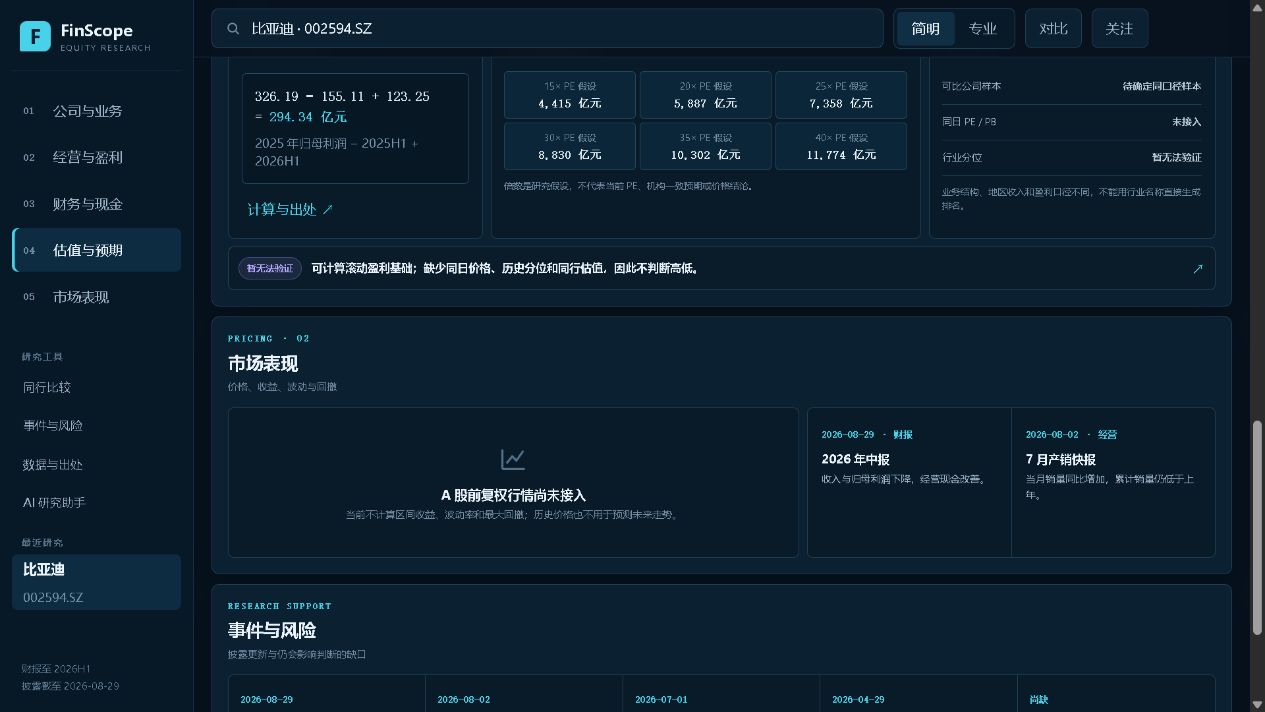
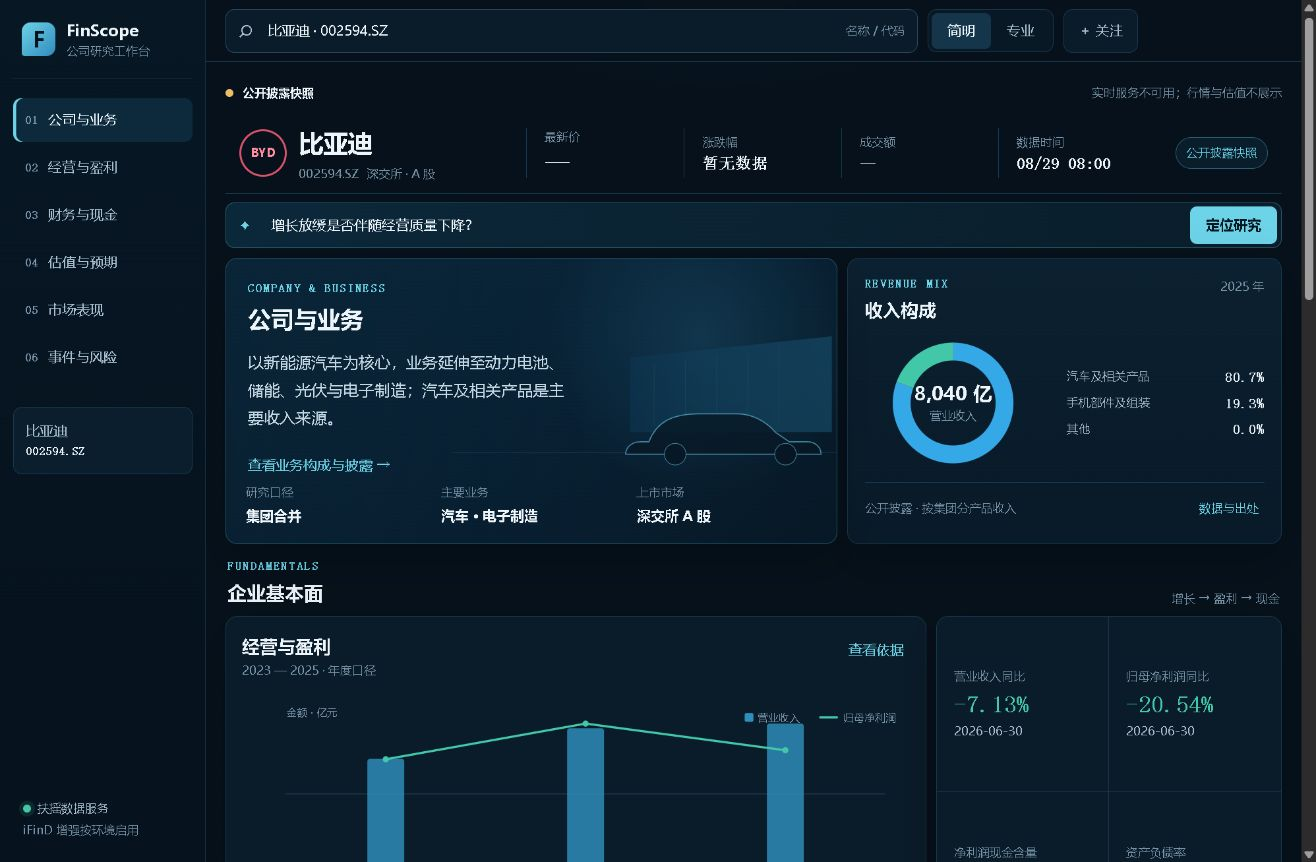
docs: document live data delivery

diff --git a/README.md b/README.md
@@ -1,40 +1,42 @@
 # FinScope
 
-FinScope 是一个可操作的个股研究工作台。当前公开版本以比亚迪为完整样例，把公司与业务、经营与盈利、财务与现金、估值与预期、市场表现、同行位置、事件与风险组织在同一条研究链上。
+FinScope 是一个可操作的 A 股公司研究工作台。它把公司与业务、经营与盈利、财务与现金、估值、行情、行业位置及事件风险组织成一条研究链；用户看到的是数据之间的关系，不是“好 / 坏”标签或买卖建议。
 
 - Web 产品：[stock-evidence-lab-midea.violet-lotus-6432.chatgpt.site](https://stock-evidence-lab-midea.violet-lotus-6432.chatgpt.site)
-- 源代码：[github.com/hwerhfhwf/stock-evidence-lab](https://github.com/hwerhfhwf/stock-evidence-lab)
+- 公共源码：[github.com/hwerhfhwf/stock-evidence-lab](https://github.com/hwerhfhwf/stock-evidence-lab)
 
 ![FinScope 桌面版研究工作台](docs/finscope-desktop.png)
 
-## 用户可以获得什么
+## 产品价值
 
-- 先识别公司如何取得收入，再连接收入、利润和经营现金的变化。
-- 在 2025 全年、2026Q1、2026H1 之间切换，保持同一报告期比较。
-- 查看利润变化分解、现金结构、流动性和滚动归母利润计算。
-- 区分客观事实、分析推断、方向分化和暂时无法验证的信息。
-- 点击具体判断，查看与之对应的原值、报告期、口径、页码和原报告链接。
-- 输入研究问题，只改变研究维度的优先级，不改写或隐藏基础事实。
+- 搜索 A 股名称或代码，打开同一结构的公司研究页。
+- 首屏同时看到公司业务、最新行情、收入构成、经营趋势和关键指标。
+- 收入、利润、经营现金和资产负债按相邻关系呈现，减少孤立数字。
+- PE、PB、PS、PCF 保留原口径和缺失值，不把 `null` 显示成 0。
+- 区分客观事实、分析推断与暂无法验证的信息，并可沿图表查看具体数据与出处。
+- 简明与专业模式共用事实；专业模式只增加原值和口径细节。
 
-产品不输出综合评分、确定性涨跌预测或买卖建议。行情、同日估值和同行数据未接入时，缺口直接显示在受影响模块，不用示意数字替代。
+## 数据架构
 
-## 数据与口径
+采用“**扶摇主数据 + iFinD 可选增强**”的架构：
 
-默认样例使用比亚迪公开披露的 2025 年报、2026 年一季报、2026 年中报摘要及 2026 年 6—7 月产销快报。结构化快照位于 `ui/finscope-data.js`；每条可验证判断通过 `sourceId`、页码、期次和原值连接到来源。
+- 扶摇提供公司搜索、A 股行情快照、前复权历史 K 线、三张财务报表、财务指标和最新估值。
+- iFinD 可选增强新闻、政策、宏观及跨市场语境。当前代码保留服务端边界；未配置时只让事件语境模块降级，不影响扶摇模块。
+- 比亚迪 2025 年分产品收入来自公开年报，因为当前扶摇 bundle 不含分部收入。实时服务失败时，页面明确切换为“**公开披露快照**”，不冒充实时行情。
+- 任一数据源失败都按**模块级降级**处理：已成功模块继续展示，失败模块显示具体原因。
 
-关键确定性计算包括：
+浏览器只调用同源接口：
 
 ```text
-TTM 归母利润 = 2025 年归母利润 − 2025H1 归母利润 + 2026H1 归母利润
-               = 326.19 − 155.11 + 123.25
-               = 294.34 亿元
+GET /api/search?q=比亚迪
+GET /api/research?thscode=002594.SZ&name=比亚迪
 ```
 
-简明和专业模式共用同一份事实与判断；专业模式只增加原值表和口径细节。
+服务端返回 `market`、`financials`、`indicators`、`valuation`、`industry`、`context` 六个独立状态。缺失、过期或接口失败的信息不补零、不生成正常结论。
 
 ## 本地运行
 
-需要 Node.js 18+。默认比亚迪研究快照不需要密钥：
+需要 Node.js 18+：
 
 ```powershell
 npm test
@@ -42,30 +44,43 @@ npm run build
 npm run serve
 ```
 
-打开 `http://127.0.0.1:4173/`。
+打开 `http://127.0.0.1:4173/`。未配置密钥时仍可查看明确标注的比亚迪披露快照。
 
-如需调用扶摇实时接口，在服务端环境设置：
+如需扶摇实时数据，只在服务端环境设置：
 
 ```powershell
-$env:FUYAO_API_KEY = '仅在本地或部署平台设置'
+$env:FUYAO_API_KEY = '在本地会话或部署平台设置'
+npm run serve
 ```
 
-密钥只由 Worker 服务端读取，不进入浏览器代码、构建产物或接口响应。
+`FUYAO_API_KEY` 仅由 Worker 读取，不进入浏览器脚本、构建产物或接口响应。iFinD 的账户专属 MCP 配置也必须留在服务端；仓库不包含密钥或生成配置。
 
 ## 代码结构
 
-- `ui/finscope-data.js`：比亚迪披露快照、派生指标、证据和演示 bundle。
-- `ui/diagnosis-model.js`：问题路由、维度优先级、命题和证据模型。
-- `ui/index.html`、`ui/app.js`、`ui/styles.css`：研究工作台、图表、交互和响应式布局。
-- `worker/`：同源静态发布、扶摇适配器和研究数据聚合。
-- `scripts/build-worker.mjs`：从 `ui/` 生成 `dist/` 与 Worker 发布物。
-- `tests/`：数据口径、计算、追溯、缺失状态、接口安全、UI 与构建一致性契约。
+- `worker/fuyao.js`：扶摇允许列表、输入校验、请求与错误规范化。
+- `worker/research.js`：研究 bundle、行情指标和模块级降级。
+- `worker/ifind.js`：iFinD 可选服务端边界。
+- `ui/data-client.js`：浏览器同源数据客户端。
+- `ui/research-view.js`：纯函数视图模型、累计报表单季换算及披露后备。
+- `ui/app.js`：搜索、实时加载、图表、证据抽屉和研究问题路由。
+- `ui/finscope-data.js`：比亚迪公开披露快照及页码级证据。
+- `tests/`：计算、来源、缺失状态、接口安全、UI、文档与发布契约。
+
+## 验证
+
+```powershell
+npm test
+npm run build
+```
+
+测试覆盖搜索编码、密钥隔离、部分上游失败、估值空值、累计报表单季换算、图表缺失值、证据回溯、响应式与发布物一致性。详细架构见 [docs/live-data-architecture.md](docs/live-data-architecture.md)，产品交付说明见 [docs/product-handoff.md](docs/product-handoff.md)。
 
 ## 已知边界
 
-- 默认公开版本没有 A 股前复权价格序列，因此不计算收益、波动率和最大回撤。
-- 同日价格、历史估值分位和同口径同行样本未接入，因此不判断估值高低或行业排名。
-- 合并财报不能单独识别价格、销量和产品结构对收入的贡献。
-- 产销快报与定期报告是不同披露口径，事件卡保留原披露日期和来源。
+- 当前扶摇接口只提供最新估值快照，未提供历史估值分位。
+- 行业映射和同口径同行样本尚未完成，因此不生成行业排名。
+- iFinD 需要账户侧生成的 MCP 配置；未配置时不伪造新闻或政策影响。
+- 分部收入仅在有公开披露快照的公司展示；其他公司明确显示缺失。
+- 合并财报不能单独识别价格、销量和产品结构对收入的独立贡献。
 
-更多记录见 [AI_USAGE_AND_VALIDATION.md](AI_USAGE_AND_VALIDATION.md) 和 [TESTING.md](TESTING.md)。
+FinScope 仅作研究辅助，不构成投资建议。

diff --git a/docs/live-data-architecture.md b/docs/live-data-architecture.md
@@ -1,0 +1,49 @@
+# 实时数据架构
+
+## 请求链路
+
+```text
+浏览器
+  ├─ /api/search   → Worker → 扶摇公司搜索
+  └─ /api/research → Worker → 扶摇行情 / K 线 / 财务 / 指标 / 估值
+                            └→ iFinD 可选语境提供器
+```
+
+浏览器只接收规范化结果，不接触 `FUYAO_API_KEY` 或 iFinD 账户配置。Worker 对 A 股代码、查询长度和上游路径使用允许列表，并把 HTTP 错误和业务错误转换为安全错误结构。
+
+## 提供方职责
+
+| 模块 | 主来源 | 页面用途 | 失败行为 |
+| --- | --- | --- | --- |
+| 公司搜索 | 扶摇 | 名称 / 代码检索 | 保留当前公司，显示搜索错误 |
+| 行情 | 扶摇 | 最新价、前复权价格、成交量、收益与回撤 | 行情模块不可用；不画示意价格 |
+| 财务报表 | 扶摇 | 收入、利润、现金、资产负债趋势 | 保留成功的报表，缺表单独提示 |
+| 财务指标 | 扶摇 | 同比、现金含量、资产负债率 | 指标显示暂无数据，不从金额猜测原因 |
+| 估值 | 扶摇 | 最新 PE / PB / PS / PCF | 缺失值不补零，不判断贵或便宜 |
+| 新闻 / 政策 / 宏观 | iFinD 可选增强 | 外部事件语境 | 只降级 `context`，不阻断扶摇数据 |
+| 分部收入 | 公司公开披露 | 收入构成环形图 | 仅匹配公司和报告期时使用 |
+
+## 研究 bundle
+
+`buildResearchBundle` 输出六个并列但独立的模块：`market`、`financials`、`indicators`、`valuation`、`industry`、`context`。每个模块包含：
+
+- `status`: `ok`、`partial`、`error` 或 `unavailable`；
+- `errors`: 受影响模块的安全错误；
+- `requestIds`: 扶摇返回的 `requestId`，用于具体数据请求追踪；
+- 数据时间、报告期或行情区间。
+
+前端视图模型保留 `null`。图表跳过缺失点，不把缺失值变成 0；累计利润表只有在相邻累计值都存在时才换算单季值。
+
+## 降级顺序
+
+1. 单个扶摇请求失败：保留其他成功模块。
+2. iFinD 未配置、超时或失败：仅 `context` 不可用。
+3. 比亚迪实时 bundle 整体失败：使用明确标注的公开披露快照；行情与估值保持不可用。
+4. 其他公司实时 bundle 失败：不套用比亚迪数据，也不替换当前页面为伪结果。
+
+## 安全边界
+
+- 密钥只在 Worker 运行时环境读取。
+- 浏览器、错误信息、导出 JSON 和 Git 仓库都不包含密钥。
+- `/api/search` 和 `/api/research` 只接受受限参数；上游返回体不直接透传。
+- 页面不输出综合评分、涨跌预测或买卖建议。

diff --git a/docs/product-handoff.md b/docs/product-handoff.md
@@ -1,0 +1,46 @@
+# FinScope 产品交付说明
+
+## 用户任务
+
+用户先确认公司做什么、收入来自哪里，再沿“经营与盈利 → 财务与现金 → 估值与预期 → 市场表现 → 事件与风险”深入。页面不要求先读使用说明，也不把不同层级压成一排同尺寸卡片。
+
+首屏承担四件事：
+
+1. 行情条确认公司、代码、最新价和数据时间；
+2. 宽幅公司与业务区建立经营语境；
+3. 收入构成环形图显示分部占比和金额；
+4. 经营主图把收入与归母利润放在同一报告期比较，关键指标只补充图表无法直接表达的关系。
+
+## 信息边界
+
+- **客观事实**：直接来自扶摇或公司披露的金额、比率、价格和事件日期。
+- **分析推断**：只解释已有事实之间的关系，不把原因猜测写成定论。
+- **暂无法验证**：数据缺失、接口失败、口径不一致或 iFinD 未配置时的明确状态。
+
+图表和结论旁的“查看依据 / 数据与出处”打开对应模块或披露证据，不显示无关报告目录。收入构成来自年报；前复权价格、收益和最大回撤来自扶摇历史 K 线。
+
+## 交互
+
+- 搜索名称或代码后调用实时研究接口；空搜索不发请求。
+- 简明 / 专业只改变展示深度，不改变事实。
+- 证据抽屉支持 Esc 关闭并把焦点还给原按钮。
+- 移动端改为单列；关键操作最小高度 44px；正文不小于 12px。
+
+## 部署
+
+构建和校验：
+
+```powershell
+npm test
+npm run build
+```
+
+Sites Worker 运行时需要 `FUYAO_API_KEY`。iFinD 属于可选服务端增强；没有账户侧 MCP 配置时保持不可用状态。部署产物由 `scripts/build-worker.mjs` 生成，`ui/` 是前端权威源，`worker/` 是服务端权威源。
+
+发布后验收：
+
+- `/api/health` 返回扶摇密钥已配置；
+- `/api/research?thscode=002594.SZ&name=比亚迪` 返回行情、财务、指标和估值模块状态；
+- 首屏显示实时来源标签，收入构成仍明确标为公开披露；
+- 搜索其他 A 股时不复用比亚迪分部收入；
+- 任何缺失值都显示“暂无数据”，不补零。
